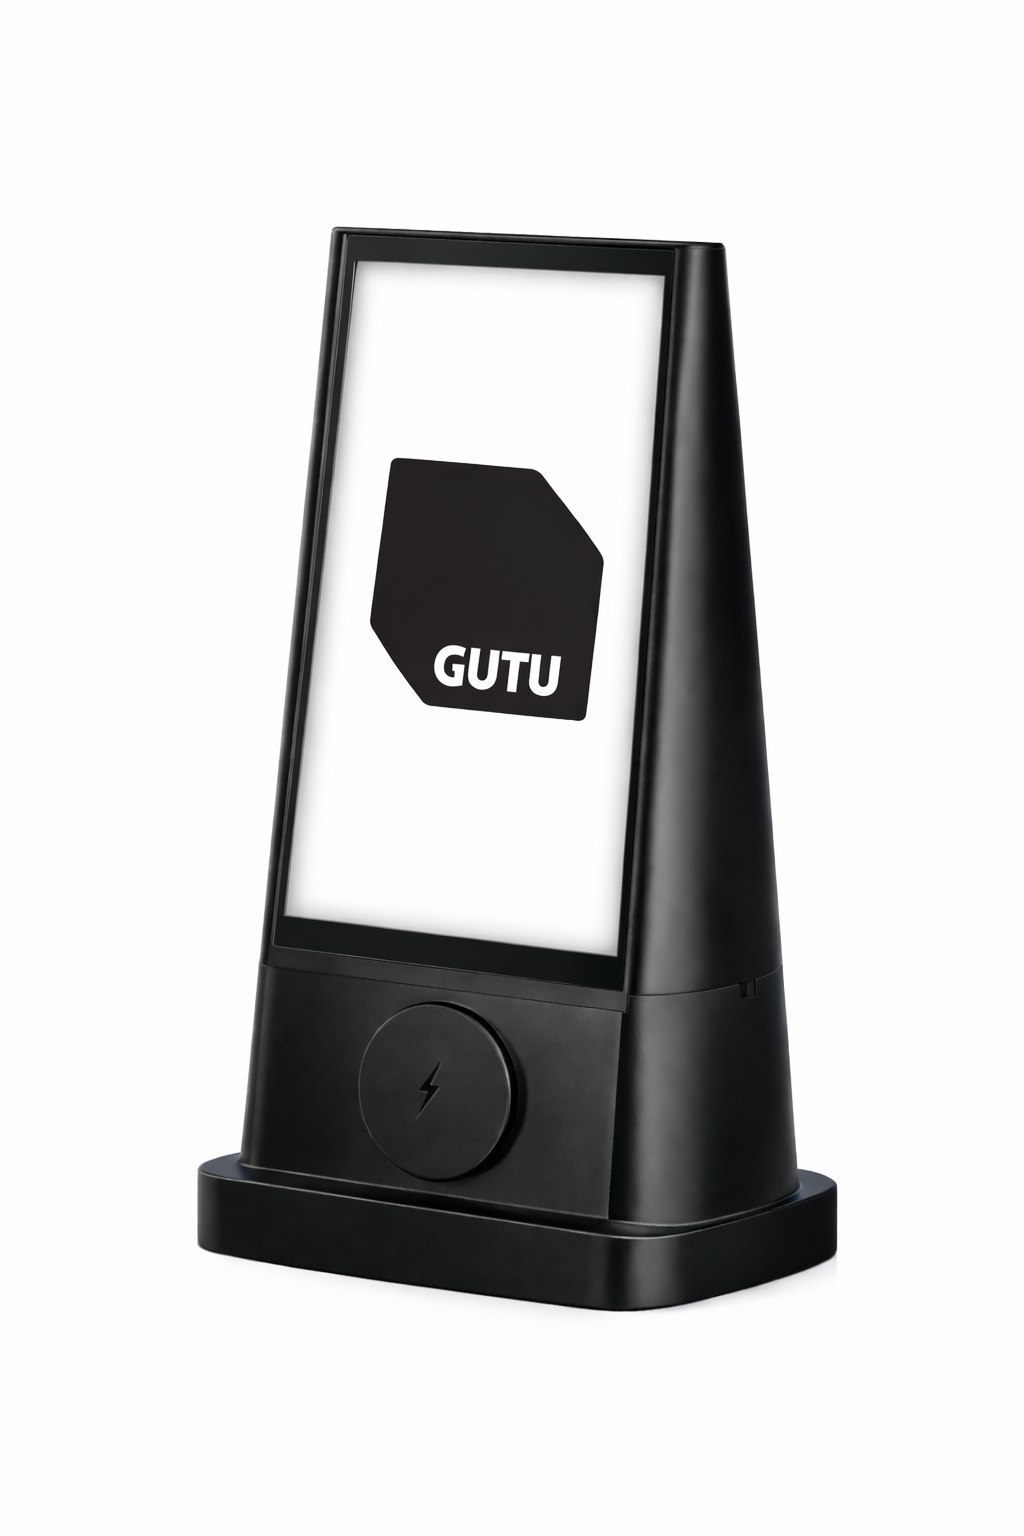
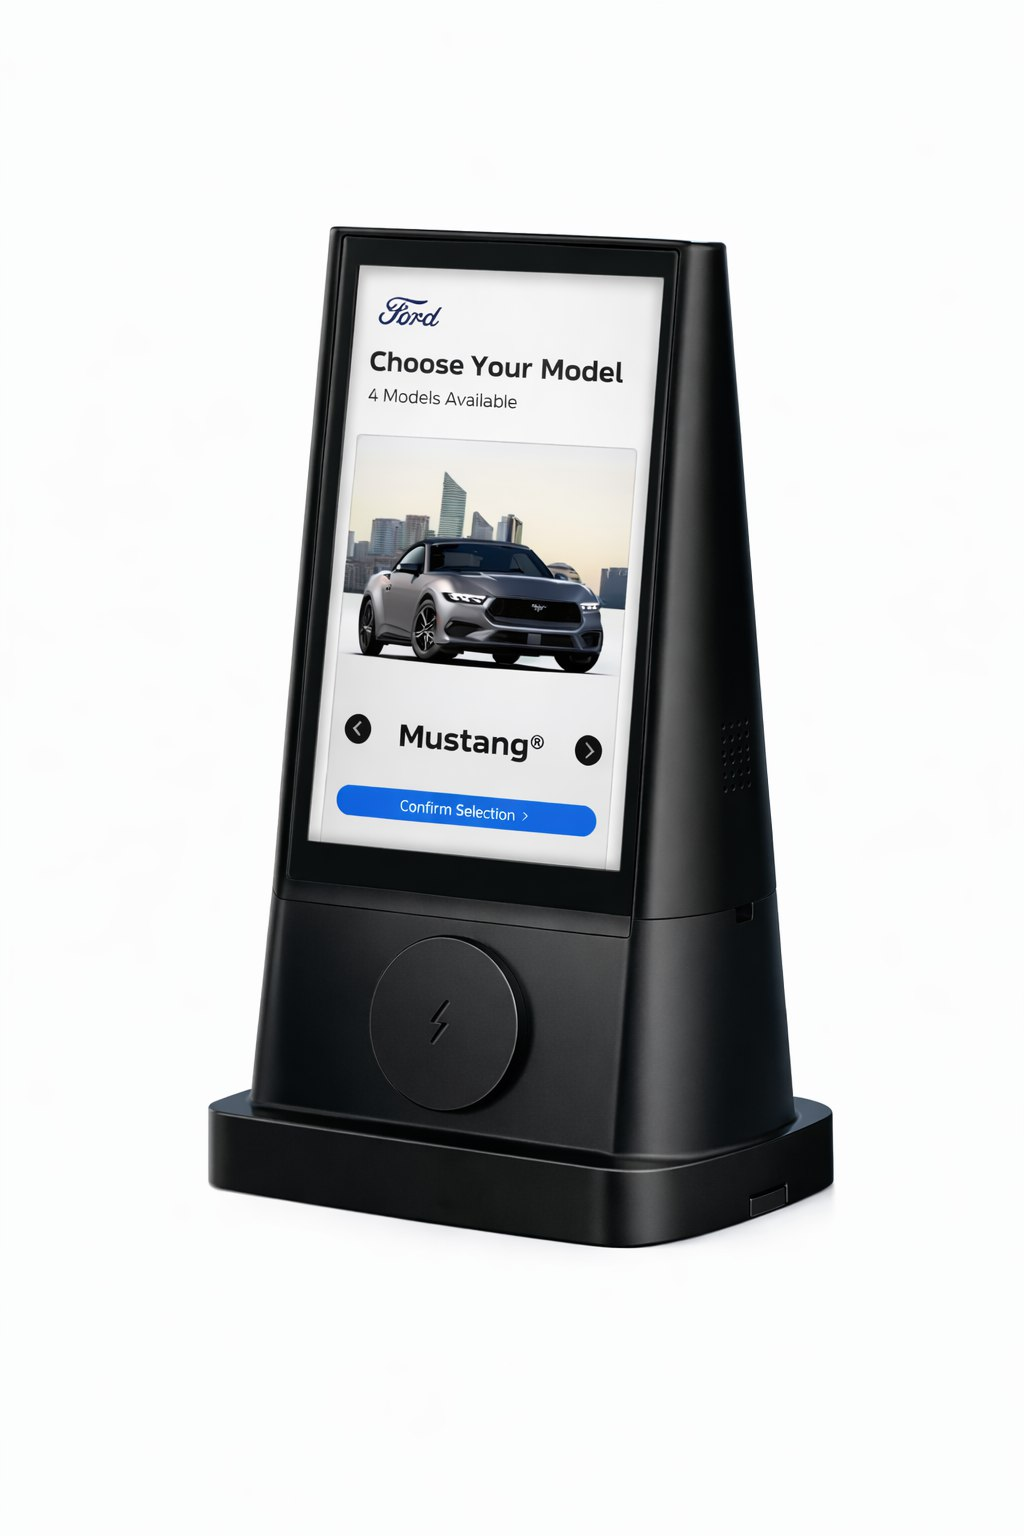
feat: replace device photo + section 2 redesign (gray box + punchy headline)

Changed region(s): [[0.1875, 0.125, 0.8438, 0.875], [0.75, 0.5625, 0.7812, 0.625]]

diff --git a/index.html b/index.html
@@ -132,17 +132,22 @@
 </section>
 
 <!-- ===== SECTION 2: PRODUCT HERO WITH IMAGE ===== -->
-<section style="background:#fff;padding:60px 60px 80px">
-  <div class="mkt-product-grid">
-    <!-- device image -->
-    <div style="border-radius:20px;overflow:hidden;background:#f5f5f5">
-      <img src="/device.jpg" alt="GUTU устройство" style="width:100%;height:auto;display:block;object-fit:contain">
-    </div>
-    <!-- description -->
-    <div>
-      <p style="font-size:28px;font-weight:600;line-height:1.45;color:#111">
-        Умное настольное устройство, объединяющее заказы, оплату, взаимодействие с гостями и таргетированную рекламу в единой системе — превращает каждый стол в активный источник дохода и ярких впечатлений.
-      </p>
+<section style="background:#fff;padding:40px 60px 60px">
+  <div style="max-width:1100px;margin:0 auto;background:#f4f4f4;border-radius:28px;padding:48px;overflow:hidden">
+    <div class="mkt-product-grid">
+      <!-- device image -->
+      <div style="display:flex;align-items:center;justify-content:center">
+        <img src="/device.jpg" alt="GUTU устройство" style="width:100%;max-width:400px;height:auto;display:block;object-fit:contain">
+      </div>
+      <!-- description -->
+      <div style="display:flex;flex-direction:column;justify-content:center">
+        <h2 style="font-size:40px;font-weight:800;letter-spacing:-1.5px;line-height:1.1;color:#111;margin-bottom:20px">
+          Один девайс.<br>Весь ресторан.
+        </h2>
+        <p style="font-size:19px;font-weight:400;line-height:1.6;color:#444">
+          Заказы, оплата, взаимодействие с гостями и таргетированная реклама — всё в одной системе. Превращает каждый стол в активный источник дохода и ярких впечатлений.
+        </p>
+      </div>
     </div>
   </div>
 </section>
